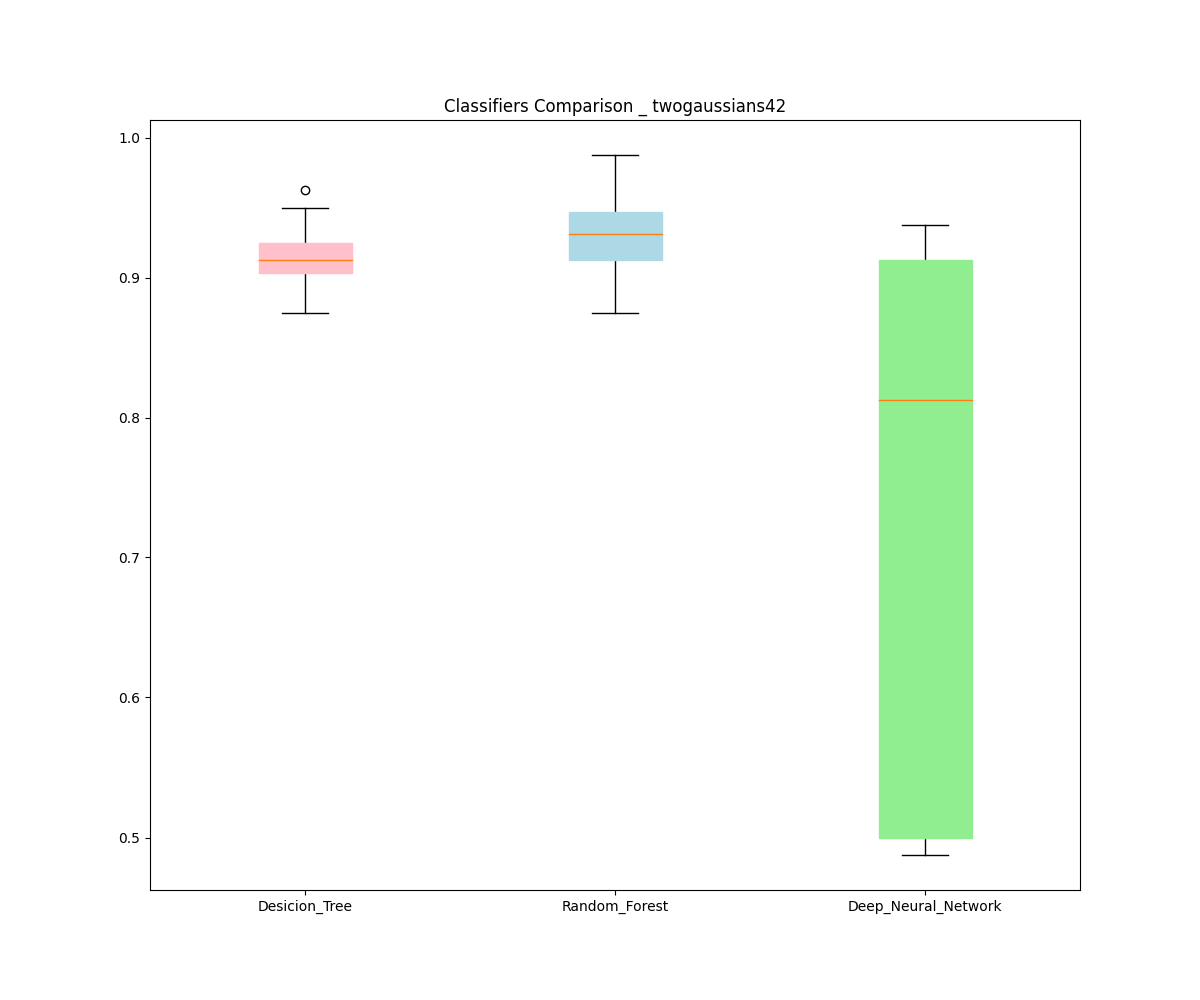
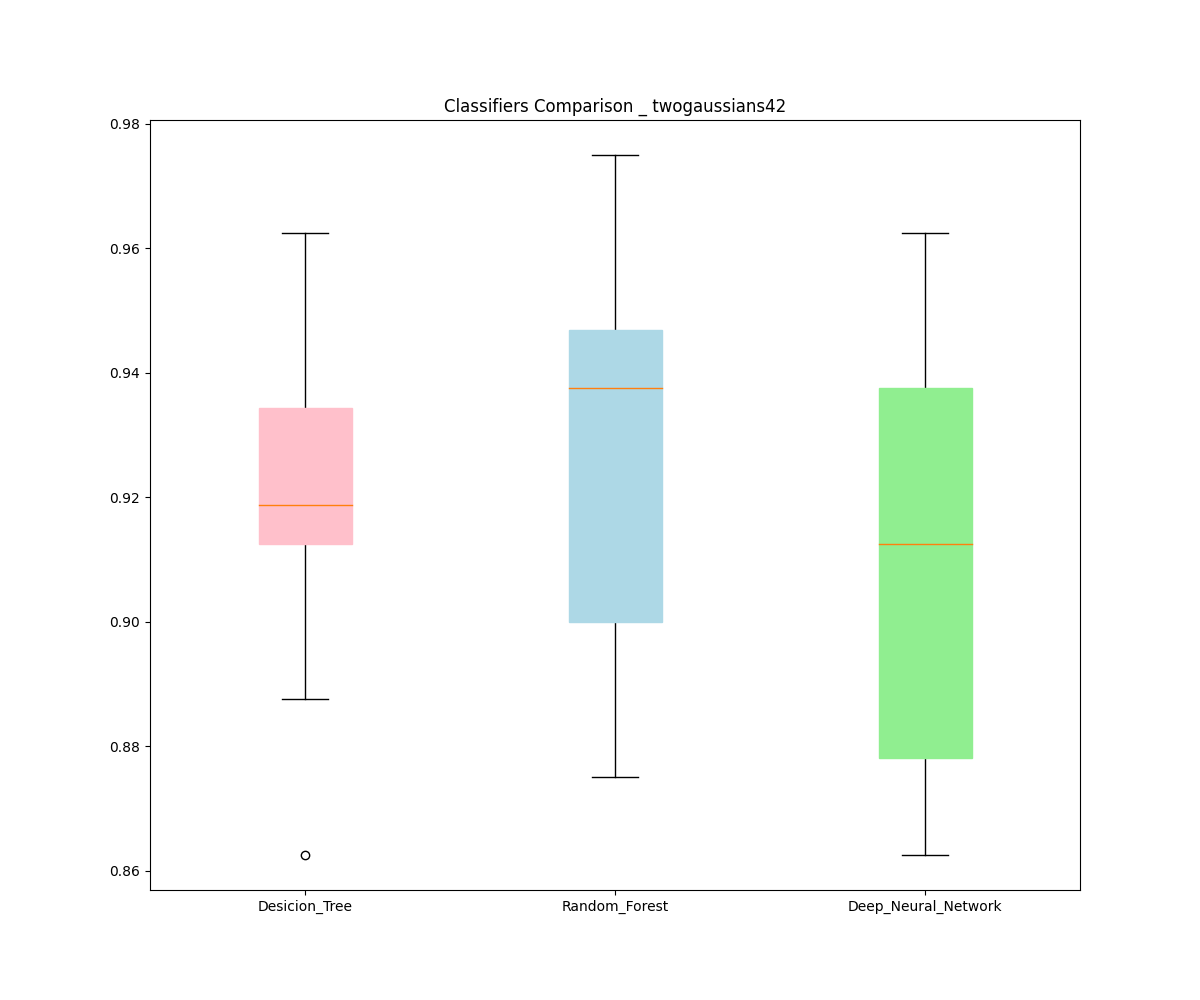
Optimizing Adding new plots

diff --git a/Assignment_3/ML_Methods.py b/Assignment_3/ML_Methods.py
@@ -10,7 +10,7 @@ from sklearn.model_selection import StratifiedKFold, cross_val_score
 from sklearn.model_selection import train_test_split
 import matplotlib.pyplot as plt
 from tensorflow.keras.models import Sequential
-from tensorflow.keras.layers import Dense
+from tensorflow.keras.layers import Dense, Dropout
 from tensorflow.keras.wrappers.scikit_learn import KerasClassifier
 from sklearn.neural_network import MLPClassifier
 import pandas as pd
@@ -135,11 +135,12 @@ class ML_Methods:
 
         DNN_model = Sequential()
 
-        DNN_model.add(Dense(32, activation='relu', input_dim=2))
-        DNN_model.add(Dense(16, activation='relu'))
-        DNN_model.add(Dense(8, activation='relu'))
-        DNN_model.add(Dense(16, activation='relu'))
+        DNN_model.add(Dense(64, activation='relu', input_dim=2))
+        DNN_model.add(Dropout(0.1))
         DNN_model.add(Dense(32, activation='relu'))
+        DNN_model.add(Dropout(0.2))
+        DNN_model.add(Dense(64, activation='relu'))
+        DNN_model.add(Dropout(0.3))
 
         DNN_model.add(Dense(1, activation='relu'))
 
@@ -161,23 +162,12 @@ class ML_Methods:
 
         # Wrap Keras model so it can be used by scikit-learn
         model = KerasClassifier(build_fn=self.Keras_Deep_Neural_Network,
-                                epochs=15,
-                                batch_size=10,
+                                epochs=20,
+                                batch_size=16,
                                 verbose=0)
 
         return (name, model)
 
-
-
-
-    def Neural_Network(self):
-        """
-        create a Neural_Network classifier
-        :return (name of the mode, Neural_Network model):
-        """
-        name = "Neural_Network"
-        NN_model = MLPClassifier(hidden_layer_sizes=(12, 8), activation='relu', max_iter=20, batch_size=10, verbose=False)
-        return (name, NN_model)
 
 
     def data_spliting(self, x, y, test_size=0.2, random_state=1):
